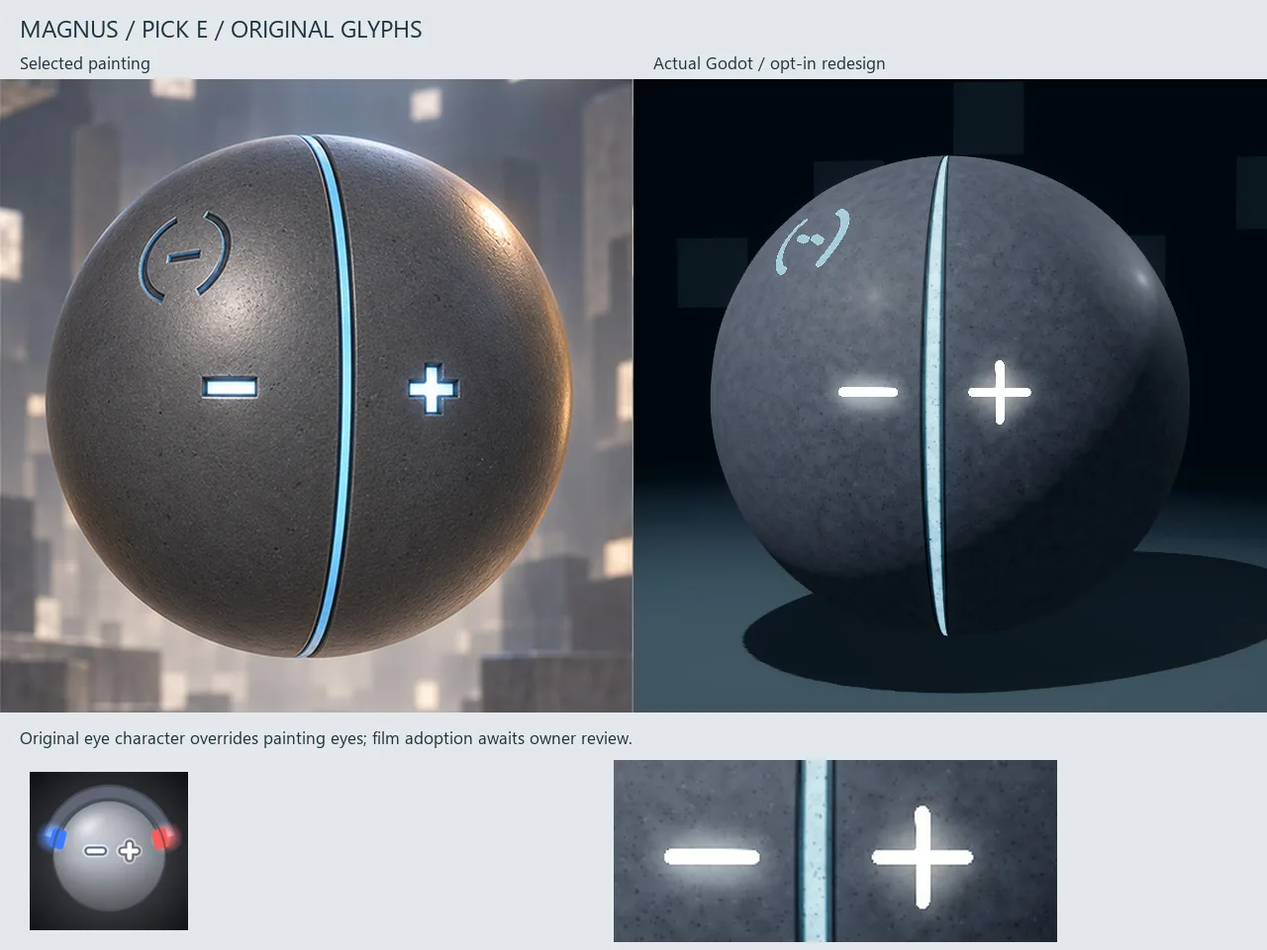
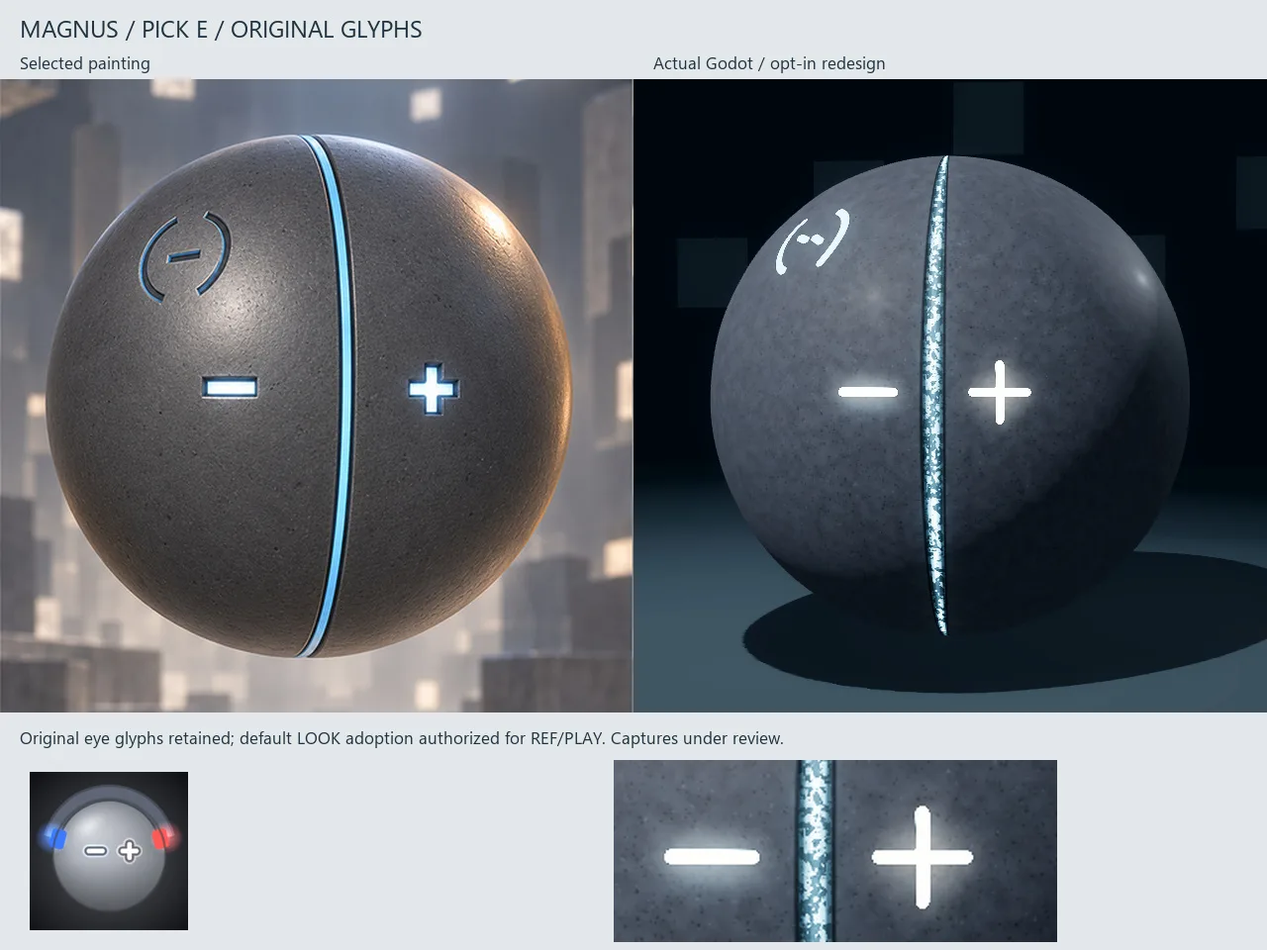
Publish approved default orb appearance

diff --git a/index.html b/index.html
@@ -1,1 +1,1 @@
-<!doctype html><html lang="en"><head><meta charset="utf-8"><meta name="viewport" content="width=device-width,initial-scale=1"><meta name="description" content="Orb Fighters: building a living sandbox, one readable clash at a time."><meta name="color-scheme" content="light"><title>Development journal &middot; Orb Fighters</title><link rel="stylesheet" href="assets/style.css"></head><body><a class="skip" href="#main">Skip to content</a><header><a class="brand" href="index.html"><span class="brand-mark" aria-hidden="true">OF</span><span>ORB FIGHTERS<small>DEVELOPMENT JOURNAL</small></span></a><nav aria-label="Main navigation"><a href="index.html" aria-current="page">Home</a><a href="milestones.html">Milestones</a><a href="gallery.html">Gallery</a><a href="design.html">Design</a></nav></header><main id="main"><section class="hero"><div><p class="eyebrow">A WORLD IN THE MAKING</p><h1>Small beings.<br><span>Limitless possibility.</span></h1><p class="intro">Follow Orb Fighters as a living sandbox takes shape: expressive orbs, physical powers, and fights that leave a mark.</p><a class="button" href="milestones.html">Follow the milestones <span aria-hidden="true">&rarr;</span></a></div><div class="hero-media"><a class="hero-image-link" href="posts/2026-10-02-the-orbs-side-by-side.html" aria-label="Read the orb material development update"><figure class="wip-still"><img src="assets/media/2026-10-02-the-orbs-side-by-side-still-2.webp?v=mineral-cream" alt="MAGNUS painting beside a dark slate mineral shell with a textured blue meridian and small cream minus and plus eyes" loading="eager" decoding="async"><figcaption><span class="wip-label">Work in progress</span> MAGNUS WIP: the dark slate shell keeps fine pores and uneven wear around its blue meridian. The eye cores are still flat white, and the pale sigil and material depth remain unfinished.</figcaption></figure></a></div></section><section class="updates"><div class="section-title"><h2>Latest from the workshop</h2><span>NEWEST FIRST</span></div><div class="post-grid"><article class="post-card"><figure class="wip-still"><a href="assets/media/2026-10-02-twenty-seconds-in-the-duel-still-2.webp?v=late-clean"><img src="assets/media/2026-10-02-twenty-seconds-in-the-duel-still-2.webp?v=late-clean" alt="TERRA and BLAZE remain readable with the owned stone pillar removed after the second Clean" width="960" height="540" loading="lazy" decoding="async"></a><figcaption><span class="wip-label">Work in progress</span> 15.15 s - The world after the second actual C Clean: the owned pillar is gone and the pair is readable. This is not a successful counter or instant regeneration.</figcaption></figure><div class="post-meta"><time datetime="2026-10-02T17:05+09:00">02 Oct 2026, 17:05 KST</time><span class="badge">Work in progress</span></div><h2><a href="posts/2026-10-02-twenty-seconds-in-the-duel.html">Ordinary controls in the duel</a></h2><p>A twenty-second gameplay capture replays recorded mouse and key inputs through TERRA&#39;s ordinary controls against autonomous BLAZE. This is recorded input, not someone playing through the GUI or an authored reference fight. The current gameplay orbs remain in use; the selected shell study is still unapplied.</p><a class="read-more" href="posts/2026-10-02-twenty-seconds-in-the-duel.html">Read the update &rarr;</a></article><article class="post-card"><figure class="wip-still"><a href="assets/media/2026-10-02-a-fight-you-can-follow-still-2.webp?v=wide-pair"><img src="assets/media/2026-10-02-a-fight-you-can-follow-still-2.webp?v=wide-pair" alt="A wider fixed landing view shows both whole BLAZE and TERRA shells with the pillar beside them" width="1080" height="1920" loading="lazy" decoding="async"></a><figcaption><span class="wip-label">Work in progress</span> Approximately 8.23 s - The wider landing pair is established, with both whole shells visible and the pillar clear of them. An earlier camera transition still clips the frame edge.</figcaption></figure><div class="post-meta"><time datetime="2026-10-02T16:28+09:00">02 Oct 2026, 16:28 KST</time><span class="badge">Work in progress</span></div><h2><a href="posts/2026-10-02-a-fight-you-can-follow.html">Letting the landing read</a></h2><p>The reference fight now holds a wider, fixed view of BLAZE and TERRA through the landing. Both whole shells remain visible during the reviewed 8.25-9.25 second interval, and the pillar no longer covers them. The contact has room to read.</p><a class="read-more" href="posts/2026-10-02-a-fight-you-can-follow.html">Read the update &rarr;</a></article><article class="post-card"><figure class="wip-still"><a href="assets/media/2026-10-02-the-orbs-side-by-side-still-1.webp?v=mineral-cream"><img src="assets/media/2026-10-02-the-orbs-side-by-side-still-1.webp?v=mineral-cream" alt="Eight selected paintings beside mineral-textured stone and ceramic orb studies with original small cream eye glyphs" loading="lazy" decoding="async"></a><figcaption><span class="wip-label">Work in progress</span> Mineral WIP: fine pores, inclusions and uneven wear replace cloudy patches. Wider coloured channels carry texture; lit core interiors and pale sigils still need depth.</figcaption></figure><div class="post-meta"><time datetime="2026-10-02T16:05:00+09:00">02 Oct 2026, 16:05 KST</time><span class="badge">Work in progress</span></div><h2><a href="posts/2026-10-02-the-orbs-side-by-side.html">Original small glyphs, eight shell directions</a></h2><p>The eight shells now use fine mineral pores, inclusions and uneven wear instead of broad cloudy patches. Stone and ceramic stay restrained, while wider coloured channels carry texture in a dark studio. MAGNUS keeps its dark slate body.</p><a class="read-more" href="posts/2026-10-02-the-orbs-side-by-side.html">Read the update &rarr;</a></article><article class="post-card"><figure class="wip-still"><img src="assets/media/2026-10-01-a-cleaner-reference-fight-still-1.webp" alt="BLAZE drives an orange blade toward TERRA amid sparks in the earlier reference pass" width="1080" height="1920" loading="lazy" decoding="async"><figcaption><span class="wip-label">Work in progress</span> Before: the contact is readable, but bright sparks and steam crowd its focal point. This is authored reference-animation WIP.</figcaption></figure><div class="post-meta"><time datetime="2026-10-01T11:07:00+09:00">01 Oct 2026, 11:07 KST</time><span class="badge">M1</span><span class="badge">In progress</span></div><h2><a href="posts/2026-10-01-a-cleaner-reference-fight.html">A cleaner reference fight</a></h2><p>We have withdrawn the short video from this reference-fight update because the action is too confusing. Frequent angle changes, crowded fighters and weak plasma shapes make the exchange hard to follow. These work-in-progress stills remain for comparison while we rebuild the sequence.</p><a class="read-more" href="posts/2026-10-01-a-cleaner-reference-fight.html">Read the update <span aria-hidden="true">&rarr;</span></a></article><article class="post-card"><figure class="wip-still"><img src="assets/media/2026-10-01-moves-tested-as-a-complete-chain-still-1.webp" alt="Warm earth-colored TERRA faces vivid red BLAZE at a staged contact" width="1080" height="1920" loading="lazy" decoding="async"><figcaption><span class="wip-label">Work in progress</span> Latest selected orb material WIP. Red body shading is clearer, but the blade remains hidden; the next reference render changes the contact staging.</figcaption></figure><div class="post-meta"><time datetime="2026-10-01T09:44:00+09:00">01 Oct 2026, 09:44 KST</time><span class="badge">M1</span><span class="badge">In progress</span></div><h2><a href="posts/2026-10-01-moves-tested-as-a-complete-chain.html">Testing moves as a complete chain</a></h2><p>A technique can now reach the native duel core as a complete ordered chain of moves. The core quotes the whole chain before accepting it, so a later step cannot quietly overspend Glow or reuse matter that an earlier step has already reserved. An invalid step leaves the world unchanged.</p><a class="read-more" href="posts/2026-10-01-moves-tested-as-a-complete-chain.html">Read the update <span aria-hidden="true">&rarr;</span></a></article><article class="post-card"><figure class="wip-still"><img src="assets/media/2026-10-01-kept-builds-survive-a-fresh-world-still-1.webp" alt="A surviving stone pillar stands after a scripted Keep action" width="1080" height="1920" loading="lazy" decoding="async"><figcaption><span class="wip-label">Work in progress</span> Later native capture of the paid kept build. Its surviving state is tested, but the pale box material is unfinished; detailed stone shading is next.</figcaption></figure><div class="post-meta"><time datetime="2026-10-01T09:01:00+09:00">01 Oct 2026, 09:01 KST</time><span class="badge">M1</span><span class="badge">In progress</span></div><h2><a href="posts/2026-10-01-kept-builds-survive-a-fresh-world.html">Kept builds survive a fresh world</a></h2><p>The latest scripted control test now keeps a real, surviving stone build. The player targets it, pays once, and a repeated Keep action spends nothing extra. Clean leaves that paid kept build intact without issuing a refund.</p><a class="read-more" href="posts/2026-10-01-kept-builds-survive-a-fresh-world.html">Read the update <span aria-hidden="true">&rarr;</span></a></article><article class="post-card"><figure class="wip-still"><img src="assets/media/2026-10-01-controls-reach-the-duel-still-1.webp" alt="TERRA shapes stone beside BLAZE during a native input test" width="1080" height="1920" loading="lazy" decoding="async"><figcaption><span class="wip-label">Work in progress</span> Later recorded follow-up to the scripted contacts. The native input path works, but the pale pillar reads poorly; surface materials are next.</figcaption></figure><div class="post-meta"><time datetime="2026-10-01T08:31:00+09:00">01 Oct 2026, 08:31 KST</time><span class="badge">M1</span><span class="badge">In progress</span></div><h2><a href="posts/2026-10-01-controls-reach-the-duel.html">The controls reach the duel</a></h2><p>The latest scripted control test produced three physical contacts and a broken guard between TERRA and BLAZE. Every authored movement and power-shape upload in that run was accepted. The controls and shared motion now connect to the native duel&#39;s consequences.</p><a class="read-more" href="posts/2026-10-01-controls-reach-the-duel.html">Read the update <span aria-hidden="true">&rarr;</span></a></article><article class="post-card"><figure class="wip-still"><img src="assets/media/2026-10-01-giving-moves-real-consequences-still-1.webp" alt="TERRA and BLAZE stand beside a newly formed stone pillar" width="1080" height="1920" loading="lazy" decoding="async"><figcaption><span class="wip-label">Work in progress</span> Later native control capture, not the backend fixture described above. Geometry and costs are native, but stone shading and the small viewport need work.</figcaption></figure><div class="post-meta"><time datetime="2026-10-01T07:39:00+09:00">01 Oct 2026, 07:39 KST</time><span class="badge">M1</span><span class="badge">In progress</span></div><h2><a href="posts/2026-10-01-giving-moves-real-consequences.html">Giving moves real consequences</a></h2><p>The new duel backend now runs inside Godot. It accepts authored movement and power shapes, checks the available Glow and existing matter, and resolves physical contacts. Animation supplies the movement; the core accounts for its consequences.</p><a class="read-more" href="posts/2026-10-01-giving-moves-real-consequences.html">Read the update <span aria-hidden="true">&rarr;</span></a></article><article class="post-card"><figure class="wip-still"><img src="assets/media/2026-10-01-the-journal-is-live-still-1.webp" alt="The development journal home page with dated progress posts" width="1280" height="2258" loading="lazy" decoding="async"><figcaption><span class="wip-label">Work in progress</span> Later journal screenshot. This earlier layout still had no post media; images and short WIP clips are being added now.</figcaption></figure><div class="post-meta"><time datetime="2026-10-01T06:55:00+09:00">01 Oct 2026, 06:55 KST</time><span class="badge">M1</span><span class="badge">In progress</span></div><h2><a href="posts/2026-10-01-the-journal-is-live.html">The development journal is live</a></h2><p>This journal is now online. It brings together the latest development posts, milestone status and a readable summary of the design, so the progress of Orb Fighters is easier to follow on a phone.</p><a class="read-more" href="posts/2026-10-01-the-journal-is-live.html">Read the update <span aria-hidden="true">&rarr;</span></a></article><article class="post-card"><figure class="wip-still"><img src="assets/media/2026-10-01-making-fields-visible-still-1.webp" alt="MAGNUS prepares magnetic power above scattered metal filings" width="720" height="1280" loading="lazy" decoding="async"><figcaption><span class="wip-label">Work in progress</span> Cosmetic component WIP: tangible filings show the field, but they disappear at phone size. Larger, clearer alignment changes are next.</figcaption></figure><div class="post-meta"><time datetime="2026-10-01T05:24:00+09:00">01 Oct 2026, 05:24 KST</time><span class="badge">M1</span><span class="badge">In progress</span></div><h2><a href="posts/2026-10-01-making-fields-visible.html">Making fields visible through matter</a></h2><p>The latest MAGNUS study shows magnetic power through metal filings and moving alloy fragments. The field becomes visible through what it moves, giving this fighter a different shape language from stone, plasma and electrical discharge.</p><a class="read-more" href="posts/2026-10-01-making-fields-visible.html">Read the update <span aria-hidden="true">&rarr;</span></a></article><article class="post-card"><figure class="wip-still"><img src="assets/media/2026-10-01-framing-the-moment-of-contact-still-1.webp" alt="TERRA faces the camera under a dense stone-dust effect" width="1080" height="1920" loading="lazy" decoding="async"><figcaption><span class="wip-label">Work in progress</span> Camera-revision WIP: the fighter is large, but dense dust and speed lines compete with its eyes. Cleaner contact shapes are next.</figcaption></figure><div class="post-meta"><time datetime="2026-10-01T04:45:00+09:00">01 Oct 2026, 04:45 KST</time><span class="badge">M1</span><span class="badge">In progress</span></div><h2><a href="posts/2026-10-01-framing-the-moment-of-contact.html">Framing the moment of contact</a></h2><p>The latest reference-fight camera brings more of the action into view. In the recorded revision, 466 of 600 frames meet the current fighter-size and framing target, up from 332. The target is 480, and all three major impacts now keep the fighter shells inside their safety margin.</p><a class="read-more" href="posts/2026-10-01-framing-the-moment-of-contact.html">Read the update <span aria-hidden="true">&rarr;</span></a></article><article class="post-card"><figure class="wip-still"><img src="assets/media/2026-10-01-making-the-workshop-readable-still-1.webp" alt="TERRA is shown in a dedicated dummy view above technique fields" width="1080" height="1920" loading="lazy" decoding="async"><figcaption><span class="wip-label">Work in progress</span> Later control-only follow-up: the dummy has its own view. Combat is unavailable; more space for the fight is still needed.</figcaption></figure><div class="post-meta"><time datetime="2026-10-01T04:03:00+09:00">01 Oct 2026, 04:03 KST</time><span class="badge">M4</span><span class="badge">Groundwork</span></div><h2><a href="posts/2026-10-01-making-the-workshop-readable.html">Making the workshop readable</a></h2><p>The technique workshop now gives its live dummy a separate view. Larger text and scrolling controls let you adjust a recipe without covering the orb&#39;s eyes. The control guide has its own space, so instructions stay clear of the demonstration.</p><a class="read-more" href="posts/2026-10-01-making-the-workshop-readable.html">Read the update <span aria-hidden="true">&rarr;</span></a></article><article class="post-card"><figure class="wip-still"><img src="assets/media/2026-10-01-testing-controls-before-the-duel-still-1.webp" alt="TERRA faces BLAZE while a gesture charge is shown" width="1080" height="1920" loading="lazy" decoding="async"><figcaption><span class="wip-label">Work in progress</span> Input prototype only: combat is unavailable in this version. The faint guide and cramped opening view need correction.</figcaption></figure><div class="post-meta"><time datetime="2026-10-01T03:15:00+09:00">01 Oct 2026, 03:15 KST</time><span class="badge">M4</span><span class="badge">Groundwork</span></div><h2><a href="posts/2026-10-01-testing-controls-before-the-duel.html">Testing the controls before the duel</a></h2><p>The first control prototype now runs inside Godot. A recorded input session exercises direction and charge, releasing a technique, quick reactions, lock-on, Clean and Keep requests, and the technique workshop. Thirteen checks passed for input handling and saved recipes.</p><a class="read-more" href="posts/2026-10-01-testing-controls-before-the-duel.html">Read the update <span aria-hidden="true">&rarr;</span></a></article><article class="post-card"><figure class="wip-still"><img src="assets/media/2026-10-01-craft-and-first-playable-still-1.webp" alt="TERRA braces below a cloud of stone dust" width="1080" height="1920" loading="lazy" decoding="async"><figcaption><span class="wip-label">Work in progress</span> Later reference-animation WIP: dust and stone crowd the contact image. Clearer effect staging and quieter scenery are next.</figcaption></figure><div class="post-meta"><time datetime="2026-10-01T02:44:00+09:00">01 Oct 2026, 02:44 KST</time><span class="badge">M1</span><span class="badge">In progress</span></div><h2><a href="posts/2026-10-01-craft-and-first-playable.html">A clearer fight, a brighter world</a></h2><p>Orb Fighters is building toward fluid, creative power fights in a world that remembers what happened. The first reference spar pairs BLAZE&#39;s plasma with TERRA&#39;s stone shaping. That short fight sets the quality target before the systems grow around it.</p><a class="read-more" href="posts/2026-10-01-craft-and-first-playable.html">Read the update <span aria-hidden="true">&rarr;</span></a></article></div></section></main><footer><strong>Orb Fighters</strong><span>Original worlds. Shared rules. Unexpected fights.</span><a href="design.html">Explore the design</a></footer></body></html>
+<!doctype html><html lang="en"><head><meta charset="utf-8"><meta name="viewport" content="width=device-width,initial-scale=1"><meta name="description" content="Orb Fighters: building a living sandbox, one readable clash at a time."><meta name="color-scheme" content="light"><title>Development journal &middot; Orb Fighters</title><link rel="stylesheet" href="assets/style.css"></head><body><a class="skip" href="#main">Skip to content</a><header><a class="brand" href="index.html"><span class="brand-mark" aria-hidden="true">OF</span><span>ORB FIGHTERS<small>DEVELOPMENT JOURNAL</small></span></a><nav aria-label="Main navigation"><a href="index.html" aria-current="page">Home</a><a href="milestones.html">Milestones</a><a href="gallery.html">Gallery</a><a href="design.html">Design</a></nav></header><main id="main"><section class="hero"><div><p class="eyebrow">A WORLD IN THE MAKING</p><h1>Small beings.<br><span>Limitless possibility.</span></h1><p class="intro">Follow Orb Fighters as a living sandbox takes shape: expressive orbs, physical powers, and fights that leave a mark.</p><a class="button" href="milestones.html">Follow the milestones <span aria-hidden="true">&rarr;</span></a></div><div class="hero-media"><a class="hero-image-link" href="posts/2026-10-02-the-orbs-side-by-side.html" aria-label="Read the approved orb appearance update"><figure class="wip-still"><img src="assets/media/2026-10-02-the-orbs-side-by-side-still-2.webp?v=approved-default" alt="MAGNUS painting beside the approved dark slate appearance with cream minus and plus eyes and a bright textured blue meridian" loading="eager" decoding="async"><figcaption><span class="wip-label">Work in progress</span> MAGNUS: the dark mineral shell and original cream glyphs remain, with a bright textured blue inlay and readable sigil. Core interiors are still flat and the halo hue is subtle.</figcaption></figure></a></div></section><section class="updates"><div class="section-title"><h2>Latest from the workshop</h2><span>NEWEST FIRST</span></div><div class="post-grid"><article class="post-card"><figure class="wip-still"><a href="assets/media/2026-10-02-twenty-seconds-in-the-duel-still-2.webp?v=late-clean"><img src="assets/media/2026-10-02-twenty-seconds-in-the-duel-still-2.webp?v=late-clean" alt="TERRA and BLAZE remain readable with the owned stone pillar removed after the second Clean" width="960" height="540" loading="lazy" decoding="async"></a><figcaption><span class="wip-label">Work in progress</span> 15.15 s - The world after the second actual C Clean: the owned pillar is gone and the pair is readable. This is not a successful counter or instant regeneration.</figcaption></figure><div class="post-meta"><time datetime="2026-10-02T17:05+09:00">02 Oct 2026, 17:05 KST</time><span class="badge">Work in progress</span></div><h2><a href="posts/2026-10-02-twenty-seconds-in-the-duel.html">Ordinary controls in the duel</a></h2><p>A twenty-second gameplay capture replays recorded mouse and key inputs through TERRA&#39;s ordinary controls against autonomous BLAZE. This is recorded input, not someone playing through the GUI or an authored reference fight. The current gameplay orbs remain in use; the selected shell study is still unapplied.</p><a class="read-more" href="posts/2026-10-02-twenty-seconds-in-the-duel.html">Read the update &rarr;</a></article><article class="post-card"><figure class="wip-still"><a href="assets/media/2026-10-02-a-fight-you-can-follow-still-2.webp?v=wide-pair"><img src="assets/media/2026-10-02-a-fight-you-can-follow-still-2.webp?v=wide-pair" alt="A wider fixed landing view shows both whole BLAZE and TERRA shells with the pillar beside them" width="1080" height="1920" loading="lazy" decoding="async"></a><figcaption><span class="wip-label">Work in progress</span> Approximately 8.23 s - The wider landing pair is established, with both whole shells visible and the pillar clear of them. An earlier camera transition still clips the frame edge.</figcaption></figure><div class="post-meta"><time datetime="2026-10-02T16:28+09:00">02 Oct 2026, 16:28 KST</time><span class="badge">Work in progress</span></div><h2><a href="posts/2026-10-02-a-fight-you-can-follow.html">Letting the landing read</a></h2><p>The reference fight now holds a wider, fixed view of BLAZE and TERRA through the landing. Both whole shells remain visible during the reviewed 8.25-9.25 second interval, and the pillar no longer covers them. The contact has room to read.</p><a class="read-more" href="posts/2026-10-02-a-fight-you-can-follow.html">Read the update &rarr;</a></article><article class="post-card"><figure class="wip-still"><a href="assets/media/2026-10-02-the-orbs-side-by-side-still-1.webp?v=approved-default"><img src="assets/media/2026-10-02-the-orbs-side-by-side-still-1.webp?v=approved-default" alt="Eight selected paintings beside owner-approved default orb appearances with mineral wear, cream eyes and bright textured inlays" loading="lazy" decoding="async"></a><figcaption><span class="wip-label">Work in progress</span> Owner-approved default appearance for reference and gameplay: original cream glyphs, soft accent halos, bright textured inlays and more readable sigils. New moving captures remain to be reviewed.</figcaption></figure><div class="post-meta"><time datetime="2026-10-02T16:05:00+09:00">02 Oct 2026, 16:05 KST</time><span class="badge">Work in progress</span></div><h2><a href="posts/2026-10-02-the-orbs-side-by-side.html">Original small glyphs, eight shell directions</a></h2><p>The eight orbs keep fine stone and ceramic mineral wear, distinct shell colours and their original small cream eye glyphs. MAGNUS stays dark slate. These paired views show the selected paintings beside the latest appearance in a dark studio.</p><a class="read-more" href="posts/2026-10-02-the-orbs-side-by-side.html">Read the update &rarr;</a></article><article class="post-card"><figure class="wip-still"><img src="assets/media/2026-10-01-a-cleaner-reference-fight-still-1.webp" alt="BLAZE drives an orange blade toward TERRA amid sparks in the earlier reference pass" width="1080" height="1920" loading="lazy" decoding="async"><figcaption><span class="wip-label">Work in progress</span> Before: the contact is readable, but bright sparks and steam crowd its focal point. This is authored reference-animation WIP.</figcaption></figure><div class="post-meta"><time datetime="2026-10-01T11:07:00+09:00">01 Oct 2026, 11:07 KST</time><span class="badge">M1</span><span class="badge">In progress</span></div><h2><a href="posts/2026-10-01-a-cleaner-reference-fight.html">A cleaner reference fight</a></h2><p>We have withdrawn the short video from this reference-fight update because the action is too confusing. Frequent angle changes, crowded fighters and weak plasma shapes make the exchange hard to follow. These work-in-progress stills remain for comparison while we rebuild the sequence.</p><a class="read-more" href="posts/2026-10-01-a-cleaner-reference-fight.html">Read the update <span aria-hidden="true">&rarr;</span></a></article><article class="post-card"><figure class="wip-still"><img src="assets/media/2026-10-01-moves-tested-as-a-complete-chain-still-1.webp" alt="Warm earth-colored TERRA faces vivid red BLAZE at a staged contact" width="1080" height="1920" loading="lazy" decoding="async"><figcaption><span class="wip-label">Work in progress</span> Latest selected orb material WIP. Red body shading is clearer, but the blade remains hidden; the next reference render changes the contact staging.</figcaption></figure><div class="post-meta"><time datetime="2026-10-01T09:44:00+09:00">01 Oct 2026, 09:44 KST</time><span class="badge">M1</span><span class="badge">In progress</span></div><h2><a href="posts/2026-10-01-moves-tested-as-a-complete-chain.html">Testing moves as a complete chain</a></h2><p>A technique can now reach the native duel core as a complete ordered chain of moves. The core quotes the whole chain before accepting it, so a later step cannot quietly overspend Glow or reuse matter that an earlier step has already reserved. An invalid step leaves the world unchanged.</p><a class="read-more" href="posts/2026-10-01-moves-tested-as-a-complete-chain.html">Read the update <span aria-hidden="true">&rarr;</span></a></article><article class="post-card"><figure class="wip-still"><img src="assets/media/2026-10-01-kept-builds-survive-a-fresh-world-still-1.webp" alt="A surviving stone pillar stands after a scripted Keep action" width="1080" height="1920" loading="lazy" decoding="async"><figcaption><span class="wip-label">Work in progress</span> Later native capture of the paid kept build. Its surviving state is tested, but the pale box material is unfinished; detailed stone shading is next.</figcaption></figure><div class="post-meta"><time datetime="2026-10-01T09:01:00+09:00">01 Oct 2026, 09:01 KST</time><span class="badge">M1</span><span class="badge">In progress</span></div><h2><a href="posts/2026-10-01-kept-builds-survive-a-fresh-world.html">Kept builds survive a fresh world</a></h2><p>The latest scripted control test now keeps a real, surviving stone build. The player targets it, pays once, and a repeated Keep action spends nothing extra. Clean leaves that paid kept build intact without issuing a refund.</p><a class="read-more" href="posts/2026-10-01-kept-builds-survive-a-fresh-world.html">Read the update <span aria-hidden="true">&rarr;</span></a></article><article class="post-card"><figure class="wip-still"><img src="assets/media/2026-10-01-controls-reach-the-duel-still-1.webp" alt="TERRA shapes stone beside BLAZE during a native input test" width="1080" height="1920" loading="lazy" decoding="async"><figcaption><span class="wip-label">Work in progress</span> Later recorded follow-up to the scripted contacts. The native input path works, but the pale pillar reads poorly; surface materials are next.</figcaption></figure><div class="post-meta"><time datetime="2026-10-01T08:31:00+09:00">01 Oct 2026, 08:31 KST</time><span class="badge">M1</span><span class="badge">In progress</span></div><h2><a href="posts/2026-10-01-controls-reach-the-duel.html">The controls reach the duel</a></h2><p>The latest scripted control test produced three physical contacts and a broken guard between TERRA and BLAZE. Every authored movement and power-shape upload in that run was accepted. The controls and shared motion now connect to the native duel&#39;s consequences.</p><a class="read-more" href="posts/2026-10-01-controls-reach-the-duel.html">Read the update <span aria-hidden="true">&rarr;</span></a></article><article class="post-card"><figure class="wip-still"><img src="assets/media/2026-10-01-giving-moves-real-consequences-still-1.webp" alt="TERRA and BLAZE stand beside a newly formed stone pillar" width="1080" height="1920" loading="lazy" decoding="async"><figcaption><span class="wip-label">Work in progress</span> Later native control capture, not the backend fixture described above. Geometry and costs are native, but stone shading and the small viewport need work.</figcaption></figure><div class="post-meta"><time datetime="2026-10-01T07:39:00+09:00">01 Oct 2026, 07:39 KST</time><span class="badge">M1</span><span class="badge">In progress</span></div><h2><a href="posts/2026-10-01-giving-moves-real-consequences.html">Giving moves real consequences</a></h2><p>The new duel backend now runs inside Godot. It accepts authored movement and power shapes, checks the available Glow and existing matter, and resolves physical contacts. Animation supplies the movement; the core accounts for its consequences.</p><a class="read-more" href="posts/2026-10-01-giving-moves-real-consequences.html">Read the update <span aria-hidden="true">&rarr;</span></a></article><article class="post-card"><figure class="wip-still"><img src="assets/media/2026-10-01-the-journal-is-live-still-1.webp" alt="The development journal home page with dated progress posts" width="1280" height="2258" loading="lazy" decoding="async"><figcaption><span class="wip-label">Work in progress</span> Later journal screenshot. This earlier layout still had no post media; images and short WIP clips are being added now.</figcaption></figure><div class="post-meta"><time datetime="2026-10-01T06:55:00+09:00">01 Oct 2026, 06:55 KST</time><span class="badge">M1</span><span class="badge">In progress</span></div><h2><a href="posts/2026-10-01-the-journal-is-live.html">The development journal is live</a></h2><p>This journal is now online. It brings together the latest development posts, milestone status and a readable summary of the design, so the progress of Orb Fighters is easier to follow on a phone.</p><a class="read-more" href="posts/2026-10-01-the-journal-is-live.html">Read the update <span aria-hidden="true">&rarr;</span></a></article><article class="post-card"><figure class="wip-still"><img src="assets/media/2026-10-01-making-fields-visible-still-1.webp" alt="MAGNUS prepares magnetic power above scattered metal filings" width="720" height="1280" loading="lazy" decoding="async"><figcaption><span class="wip-label">Work in progress</span> Cosmetic component WIP: tangible filings show the field, but they disappear at phone size. Larger, clearer alignment changes are next.</figcaption></figure><div class="post-meta"><time datetime="2026-10-01T05:24:00+09:00">01 Oct 2026, 05:24 KST</time><span class="badge">M1</span><span class="badge">In progress</span></div><h2><a href="posts/2026-10-01-making-fields-visible.html">Making fields visible through matter</a></h2><p>The latest MAGNUS study shows magnetic power through metal filings and moving alloy fragments. The field becomes visible through what it moves, giving this fighter a different shape language from stone, plasma and electrical discharge.</p><a class="read-more" href="posts/2026-10-01-making-fields-visible.html">Read the update <span aria-hidden="true">&rarr;</span></a></article><article class="post-card"><figure class="wip-still"><img src="assets/media/2026-10-01-framing-the-moment-of-contact-still-1.webp" alt="TERRA faces the camera under a dense stone-dust effect" width="1080" height="1920" loading="lazy" decoding="async"><figcaption><span class="wip-label">Work in progress</span> Camera-revision WIP: the fighter is large, but dense dust and speed lines compete with its eyes. Cleaner contact shapes are next.</figcaption></figure><div class="post-meta"><time datetime="2026-10-01T04:45:00+09:00">01 Oct 2026, 04:45 KST</time><span class="badge">M1</span><span class="badge">In progress</span></div><h2><a href="posts/2026-10-01-framing-the-moment-of-contact.html">Framing the moment of contact</a></h2><p>The latest reference-fight camera brings more of the action into view. In the recorded revision, 466 of 600 frames meet the current fighter-size and framing target, up from 332. The target is 480, and all three major impacts now keep the fighter shells inside their safety margin.</p><a class="read-more" href="posts/2026-10-01-framing-the-moment-of-contact.html">Read the update <span aria-hidden="true">&rarr;</span></a></article><article class="post-card"><figure class="wip-still"><img src="assets/media/2026-10-01-making-the-workshop-readable-still-1.webp" alt="TERRA is shown in a dedicated dummy view above technique fields" width="1080" height="1920" loading="lazy" decoding="async"><figcaption><span class="wip-label">Work in progress</span> Later control-only follow-up: the dummy has its own view. Combat is unavailable; more space for the fight is still needed.</figcaption></figure><div class="post-meta"><time datetime="2026-10-01T04:03:00+09:00">01 Oct 2026, 04:03 KST</time><span class="badge">M4</span><span class="badge">Groundwork</span></div><h2><a href="posts/2026-10-01-making-the-workshop-readable.html">Making the workshop readable</a></h2><p>The technique workshop now gives its live dummy a separate view. Larger text and scrolling controls let you adjust a recipe without covering the orb&#39;s eyes. The control guide has its own space, so instructions stay clear of the demonstration.</p><a class="read-more" href="posts/2026-10-01-making-the-workshop-readable.html">Read the update <span aria-hidden="true">&rarr;</span></a></article><article class="post-card"><figure class="wip-still"><img src="assets/media/2026-10-01-testing-controls-before-the-duel-still-1.webp" alt="TERRA faces BLAZE while a gesture charge is shown" width="1080" height="1920" loading="lazy" decoding="async"><figcaption><span class="wip-label">Work in progress</span> Input prototype only: combat is unavailable in this version. The faint guide and cramped opening view need correction.</figcaption></figure><div class="post-meta"><time datetime="2026-10-01T03:15:00+09:00">01 Oct 2026, 03:15 KST</time><span class="badge">M4</span><span class="badge">Groundwork</span></div><h2><a href="posts/2026-10-01-testing-controls-before-the-duel.html">Testing the controls before the duel</a></h2><p>The first control prototype now runs inside Godot. A recorded input session exercises direction and charge, releasing a technique, quick reactions, lock-on, Clean and Keep requests, and the technique workshop. Thirteen checks passed for input handling and saved recipes.</p><a class="read-more" href="posts/2026-10-01-testing-controls-before-the-duel.html">Read the update <span aria-hidden="true">&rarr;</span></a></article><article class="post-card"><figure class="wip-still"><img src="assets/media/2026-10-01-craft-and-first-playable-still-1.webp" alt="TERRA braces below a cloud of stone dust" width="1080" height="1920" loading="lazy" decoding="async"><figcaption><span class="wip-label">Work in progress</span> Later reference-animation WIP: dust and stone crowd the contact image. Clearer effect staging and quieter scenery are next.</figcaption></figure><div class="post-meta"><time datetime="2026-10-01T02:44:00+09:00">01 Oct 2026, 02:44 KST</time><span class="badge">M1</span><span class="badge">In progress</span></div><h2><a href="posts/2026-10-01-craft-and-first-playable.html">A clearer fight, a brighter world</a></h2><p>Orb Fighters is building toward fluid, creative power fights in a world that remembers what happened. The first reference spar pairs BLAZE&#39;s plasma with TERRA&#39;s stone shaping. That short fight sets the quality target before the systems grow around it.</p><a class="read-more" href="posts/2026-10-01-craft-and-first-playable.html">Read the update <span aria-hidden="true">&rarr;</span></a></article></div></section></main><footer><strong>Orb Fighters</strong><span>Original worlds. Shared rules. Unexpected fights.</span><a href="design.html">Explore the design</a></footer></body></html>

diff --git a/posts/2026-10-02-the-orbs-side-by-side.html b/posts/2026-10-02-the-orbs-side-by-side.html
@@ -1,1 +1,1 @@
-<!doctype html><html lang="en"><head><meta charset="utf-8"><meta name="viewport" content="width=device-width,initial-scale=1"><meta name="description" content="Orb Fighters: building a living sandbox, one readable clash at a time."><meta name="color-scheme" content="light"><title>Original small glyphs, eight shell directions &middot; Orb Fighters</title><link rel="stylesheet" href="../assets/style.css"></head><body><a class="skip" href="#main">Skip to content</a><header><a class="brand" href="../index.html"><span class="brand-mark" aria-hidden="true">OF</span><span>ORB FIGHTERS<small>DEVELOPMENT JOURNAL</small></span></a><nav aria-label="Main navigation"><a href="../index.html" aria-current="page">Home</a><a href="../milestones.html">Milestones</a><a href="../gallery.html">Gallery</a><a href="../design.html">Design</a></nav></header><main id="main"><article class="article"><a class="back" href="../index.html">&larr; All updates</a><div class="post-meta"><time datetime="2026-10-02T16:05:00+09:00">02 Oct 2026, 16:05 KST</time><span class="badge">Work in progress</span></div><h1>Original small glyphs, eight shell directions</h1><p>The eight shells now use fine mineral pores, inclusions and uneven wear instead of broad cloudy patches. Stone and ceramic stay restrained, while wider coloured channels carry texture in a dark studio. MAGNUS keeps its dark slate body.</p><p>The original small cream eye glyphs are restored at full strength. BLAZE&#39;s thin eyes stay legible at 128 pixels without a green outline. These paired views show the selected paintings beside the latest material study, including TERRA&#39;s warm stone and MAGNUS&#39;s blue meridian.</p><p>The core interiors still read as uniform, flat white, and the sigils remain pale. Roughness and material depth still fall short of the paintings. This remains a material study in progress.</p><section class="post-visuals"><h2>Mineral texture, original cream glyphs</h2><figure class="wip-still"><a href="../assets/media/2026-10-02-the-orbs-side-by-side-still-1.webp?v=mineral-cream"><img src="../assets/media/2026-10-02-the-orbs-side-by-side-still-1.webp?v=mineral-cream" alt="Eight selected paintings beside mineral-textured stone and ceramic orb studies with original small cream eye glyphs" loading="lazy" decoding="async"></a><figcaption><span class="wip-label">Work in progress</span> Mineral WIP: fine pores, inclusions and uneven wear replace cloudy patches. Wider coloured channels carry texture; lit core interiors and pale sigils still need depth.</figcaption></figure><figure class="wip-still"><a href="../assets/media/2026-10-02-the-orbs-side-by-side-still-2.webp?v=mineral-cream"><img src="../assets/media/2026-10-02-the-orbs-side-by-side-still-2.webp?v=mineral-cream" alt="MAGNUS painting beside a dark slate mineral shell with a textured blue meridian and small cream minus and plus eyes" loading="lazy" decoding="async"></a><figcaption><span class="wip-label">Work in progress</span> MAGNUS WIP: the dark slate shell keeps fine pores and uneven wear around its blue meridian. The eye cores are still flat white, and the pale sigil and material depth remain unfinished.</figcaption></figure><figure class="wip-still"><a href="../assets/media/2026-10-02-the-orbs-side-by-side-still-3.webp?v=mineral-cream"><img src="../assets/media/2026-10-02-the-orbs-side-by-side-still-3.webp?v=mineral-cream" alt="TERRA painting beside a warm mineral stone shell with small cream rectangular eyes and a widened textured green channel" loading="lazy" decoding="async"></a><figcaption><span class="wip-label">Work in progress</span> TERRA WIP: fine mineral texture and uneven wear replace the cloudy surface, with cream rectangular eyes and a wider green channel. Roughness and depth still fall short of the painting.</figcaption></figure></section></article></main><footer><strong>Orb Fighters</strong><span>Original worlds. Shared rules. Unexpected fights.</span><a href="../design.html">Explore the design</a></footer></body></html>
+<!doctype html><html lang="en"><head><meta charset="utf-8"><meta name="viewport" content="width=device-width,initial-scale=1"><meta name="description" content="Orb Fighters: building a living sandbox, one readable clash at a time."><meta name="color-scheme" content="light"><title>Original small glyphs, eight shell directions &middot; Orb Fighters</title><link rel="stylesheet" href="../assets/style.css"></head><body><a class="skip" href="#main">Skip to content</a><header><a class="brand" href="../index.html"><span class="brand-mark" aria-hidden="true">OF</span><span>ORB FIGHTERS<small>DEVELOPMENT JOURNAL</small></span></a><nav aria-label="Main navigation"><a href="../index.html" aria-current="page">Home</a><a href="../milestones.html">Milestones</a><a href="../gallery.html">Gallery</a><a href="../design.html">Design</a></nav></header><main id="main"><article class="article"><a class="back" href="../index.html">&larr; All updates</a><div class="post-meta"><time datetime="2026-10-02T16:05:00+09:00">02 Oct 2026, 16:05 KST</time><span class="badge">Work in progress</span></div><h1>Original small glyphs, eight shell directions</h1><p>The eight orbs keep fine stone and ceramic mineral wear, distinct shell colours and their original small cream eye glyphs. MAGNUS stays dark slate. These paired views show the selected paintings beside the latest appearance in a dark studio.</p><p>A soft accent halo surrounds the eyes, the textured inlays are brighter and phase-driven, and the engraved sigils are easier to read. The owner has approved this appearance as the default for reference-fight and gameplay captures. The next captures will show it in those scenes.</p><p>Core interiors still look flat, halo hue is subtle, and the bright currents can look grainy. These stills cannot demonstrate moving currents; that needs a moving capture. Appearance adoption does not finish the motion or gameplay work.</p><section class="post-visuals"><h2>The approved default appearance</h2><figure class="wip-still"><a href="../assets/media/2026-10-02-the-orbs-side-by-side-still-1.webp?v=approved-default"><img src="../assets/media/2026-10-02-the-orbs-side-by-side-still-1.webp?v=approved-default" alt="Eight selected paintings beside owner-approved default orb appearances with mineral wear, cream eyes and bright textured inlays" loading="lazy" decoding="async"></a><figcaption><span class="wip-label">Work in progress</span> Owner-approved default appearance for reference and gameplay: original cream glyphs, soft accent halos, bright textured inlays and more readable sigils. New moving captures remain to be reviewed.</figcaption></figure><figure class="wip-still"><a href="../assets/media/2026-10-02-the-orbs-side-by-side-still-2.webp?v=approved-default"><img src="../assets/media/2026-10-02-the-orbs-side-by-side-still-2.webp?v=approved-default" alt="MAGNUS painting beside the approved dark slate appearance with cream minus and plus eyes and a bright textured blue meridian" loading="lazy" decoding="async"></a><figcaption><span class="wip-label">Work in progress</span> MAGNUS: the dark mineral shell and original cream glyphs remain, with a bright textured blue inlay and readable sigil. Core interiors are still flat and the halo hue is subtle.</figcaption></figure><figure class="wip-still"><a href="../assets/media/2026-10-02-the-orbs-side-by-side-still-3.webp?v=approved-default"><img src="../assets/media/2026-10-02-the-orbs-side-by-side-still-3.webp?v=approved-default" alt="TERRA painting beside the approved warm stone appearance with cream rectangular eyes, an engraved sigil and a bright green textured inlay" loading="lazy" decoding="async"></a><figcaption><span class="wip-label">Work in progress</span> TERRA: warm mineral wear, cream rectangular glyphs and a brighter textured green inlay. The currents look grainy in this still; their phase-driven movement is not demonstrated here.</figcaption></figure></section></article></main><footer><strong>Orb Fighters</strong><span>Original worlds. Shared rules. Unexpected fights.</span><a href="../design.html">Explore the design</a></footer></body></html>
